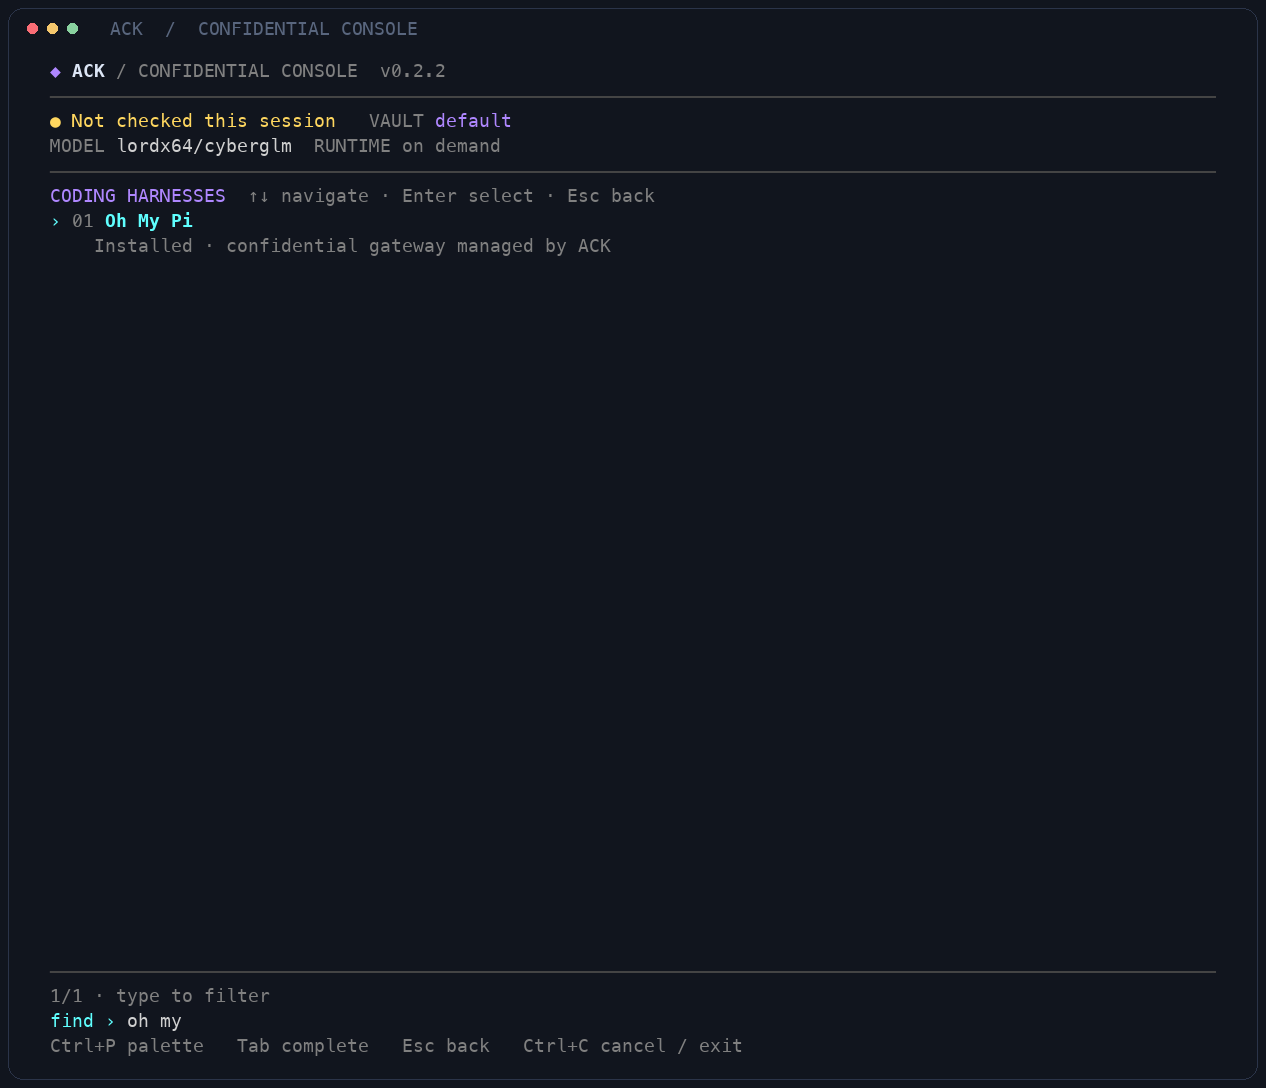
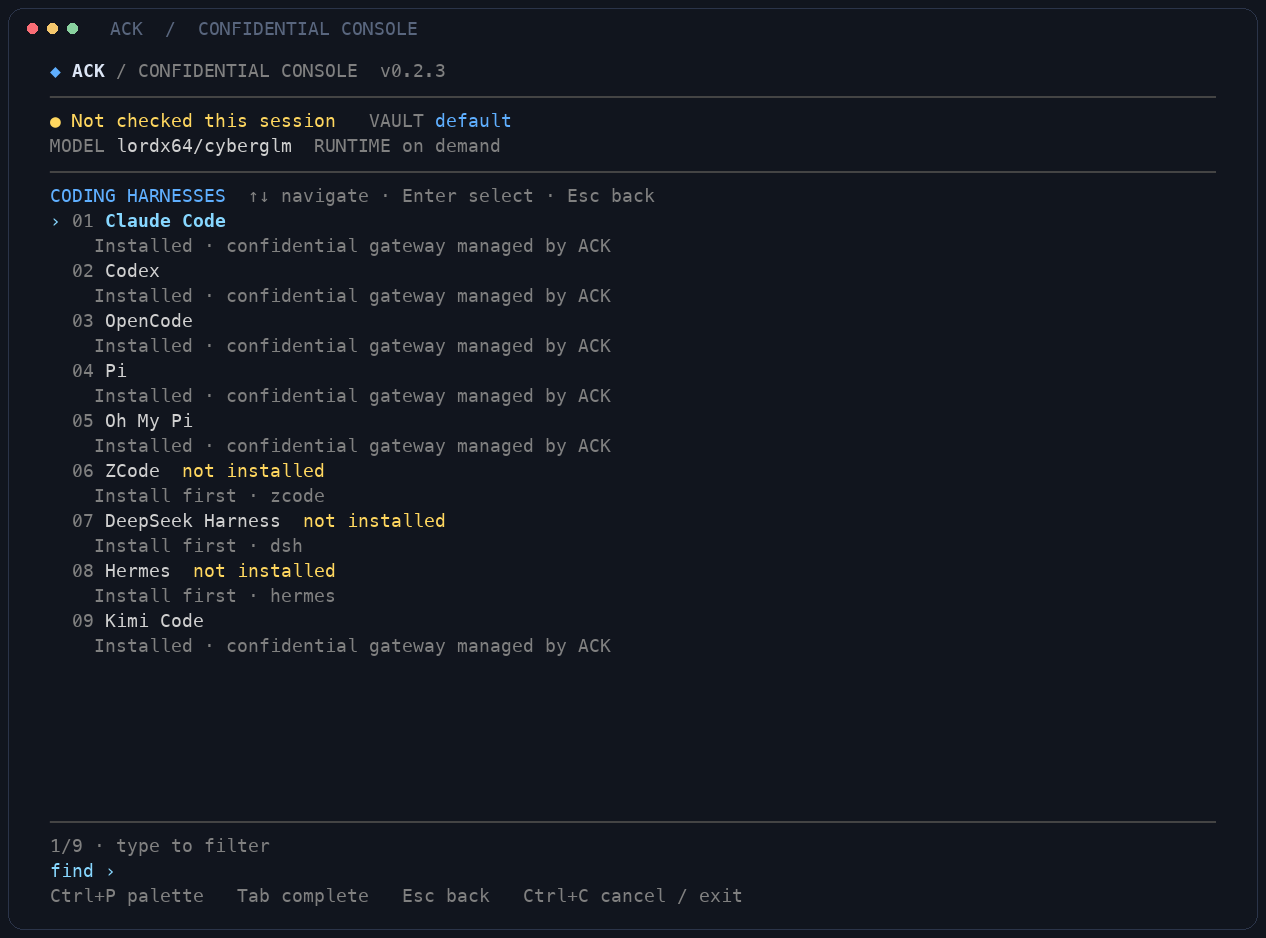
docs: refresh ACK 0.2.3 screenshots from clean demo workspace

diff --git a/README.md b/README.md
@@ -18,7 +18,14 @@ in an encrypted vault, and connects your preferred coding harness to verified
 Adverserial inference. Run it as a colorful interactive console or use ordinary
 shell commands.
 
-![ACK Confidential Console](docs/console-home.png)
+![ACK Confidential Console, version 0.2.3](docs/console-home.png)
+
+**New in 0.2.3:** run coding sessions in multiple terminal windows. Each session
+gets its own local gateway and connection settings; closing one leaves the others
+running. Runtime installation is coordinated across simultaneous launches.
+
+[Get started on the website](https://adverserial.ai/documentation) ·
+[Release validation](docs/TESTING.md)
 
 ## Install → initialize → code
 
@@ -81,6 +88,11 @@ first frame. The renderer has no additional UI dependencies and updates changed
 rows. `NO_COLOR` disables colors; noninteractive terminals receive command help.
 
 ## Coding harnesses
+
+Choose from nine integrations in the searchable picker. Missing executables are
+clearly marked; install the official harness CLI before selecting it.
+
+![ACK 0.2.3 harness picker showing all nine integrations and local installation status](docs/console-harnesses-0.2.3.png)
 
 ```sh
 ack code claude
